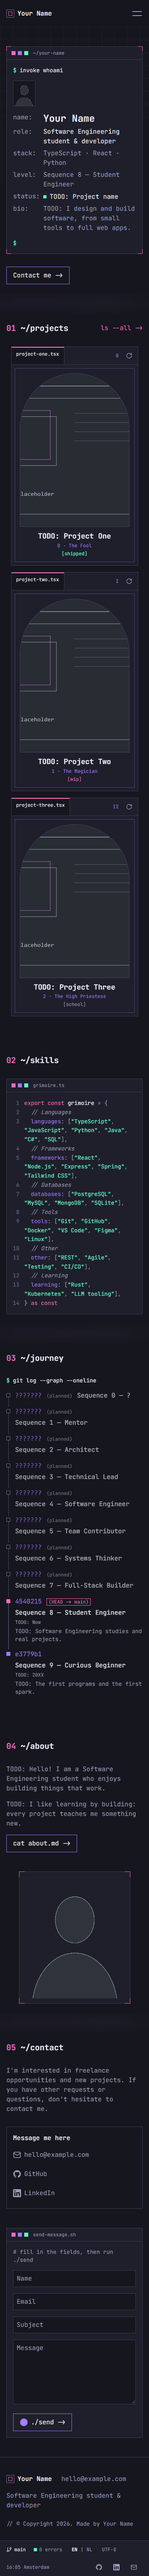
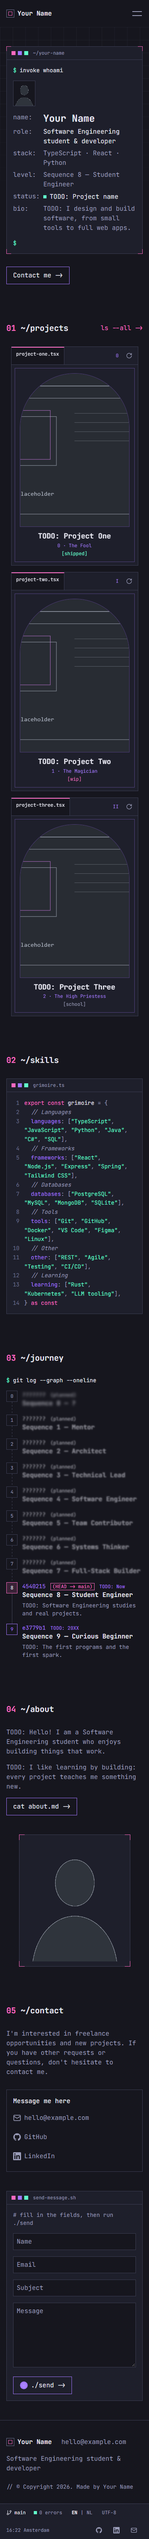
Remove fog bands and unify the journey component
- Remove FogBand dividers (component, usages, fog-drift keyframes/animation).
- New Journey component (git-log ladder with square nodes, commit ids, HEAD badge,
  fogged future steps) replaces JourneyLog (Home) and SequenceLadder (About).
- Merge the journey and sequence content blocks into one journey block.

diff --git a/src/components/sections/Journey.tsx b/src/components/sections/Journey.tsx
@@ -1,0 +1,83 @@
+import Section from '../ui/Section'
+import SectionHeading from '../ui/SectionHeading'
+import Gear from '../decor/Gear'
+import ClockHands from '../decor/ClockHands'
+import { sequences } from '../../content/sequences'
+import { useLang, useT } from '../../i18n/LanguageContext'
+
+const DASHED = 'repeating-linear-gradient(to bottom, currentColor 0 4px, transparent 4px 8px)'
+
+const hash = (n: number) => (Math.imul(n + 7, 2654435761) >>> 0).toString(16).padStart(8, '0').slice(0, 7)
+
+type Props = { num: string; decor?: 'clock' | 'gear' }
+
+/**
+ * Growth path as `git log --graph --oneline`, drawn as a ladder: Sequence 0 at the top, 9 at the bottom.
+ * Future steps are fogged (the fog is removed for prefers-reduced-transparency / prefers-contrast: more).
+ * Used on Home and About; only the section number and the decor differ.
+ */
+export default function Journey({ num, decor }: Props) {
+  const t = useT()
+  const { lang } = useLang()
+  const j = t.journey
+  const currentSeq = sequences.find((x) => x.current)?.seq ?? 9
+  const rungs = [...sequences].sort((a, b) => a.seq - b.seq) // 0 first = top
+  const currentIdx = rungs.findIndex((x) => x.seq === currentSeq)
+
+  return (
+    <Section labelledBy="journey-heading">
+      <SectionHeading id="journey-heading" num={num} title={j.heading} />
+      <p className="mb-4 text-sm">
+        <span aria-hidden="true" className="mr-2 text-ok">
+          $
+        </span>
+        <span className="text-fg">{j.command}</span>
+      </p>
+      <ol className="max-w-[620px]">
+        {rungs.map((r, i) => {
+          const state = r.current ? 'current' : r.seq > currentSeq ? 'reached' : 'future'
+          const last = i === rungs.length - 1
+          const node =
+            state === 'current'
+              ? 'border-accent-2 bg-accent-2/15 text-fg'
+              : state === 'reached'
+                ? 'border-accent text-accent'
+                : 'border-line text-muted'
+          return (
+            <li key={r.seq} className="flex gap-3" aria-current={r.current ? 'step' : undefined}>
+              <div aria-hidden="true" className="flex shrink-0 flex-col items-center">
+                <span className={`flex h-7 w-7 shrink-0 items-center justify-center border text-xs ${node}`}>{r.seq}</span>
+                {!last &&
+                  (i < currentIdx ? (
+                    <span className="min-h-3 w-px flex-1 text-line-strong/50" style={{ backgroundImage: DASHED }} />
+                  ) : (
+                    <span className="min-h-3 w-px flex-1 bg-line-strong/50" />
+                  ))}
+              </div>
+              <div className={`min-w-0 pb-4 ${state === 'future' ? 'fogged' : ''} ${r.seq === 0 ? 'fogged-deep' : ''}`}>
+                <p className="flex flex-wrap items-baseline gap-x-3 gap-y-1 text-sm">
+                  <span className={state === 'future' ? 'text-fg' : 'text-accent'}>{state === 'future' ? '???????' : hash(r.seq)}</span>
+                  {r.current && (
+                    <>
+                      <span className="border border-accent-2 px-1 text-xs text-accent-2">({j.head})</span>
+                      <span className="sr-only">{j.current}</span>
+                    </>
+                  )}
+                  {state === 'future' && <span className="text-xs text-fg">({j.planned})</span>}
+                  {state !== 'future' && r.year && <span className="text-xs text-accent">{r.year}</span>}
+                  {r.seq === 0 && <span className="sr-only">{j.locked}</span>}
+                </p>
+                <h3 className="text-base font-bold text-fg">
+                  {j.label} {r.seq} — {r.title[lang]}
+                </h3>
+                {state !== 'future' && r.text && <p className="mt-1 max-w-[56ch] text-sm">{r.text[lang]}</p>}
+              </div>
+            </li>
+          )
+        })}
+      </ol>
+      {decor === 'clock' && <ClockHands size={110} className="right-8 top-24 hidden lg:block" />}
+      {decor === 'gear' && <Gear size={130} className="right-10 top-24 hidden lg:block" />}
+    </Section>
+  )
+}

diff --git a/src/pages/HomePage.tsx b/src/pages/HomePage.tsx
@@ -1,11 +1,10 @@
 import Hero from '../components/sections/Hero'
 import ProjectsPreview from '../components/sections/ProjectsPreview'
 import SkillsSection from '../components/sections/SkillsSection'
-import JourneyLog from '../components/sections/JourneyLog'
+import Journey from '../components/sections/Journey'
 import AboutPreview from '../components/sections/AboutPreview'
 import ContactSection from '../components/sections/ContactSection'
 import PageEdgeDecor from '../components/decor/PageEdgeDecor'
-import FogBand from '../components/decor/FogBand'
 
 export default function HomePage() {
   return (
@@ -18,13 +17,10 @@ export default function HomePage() {
         ]}
       />
       <Hero />
-      <FogBand />
       <ProjectsPreview />
       <SkillsSection />
-      <FogBand />
-      <JourneyLog />
+      <Journey num="03" decor="clock" />
       <AboutPreview />
-      <FogBand />
       <ContactSection />
     </div>
   )

diff --git a/src/pages/AboutPage.tsx b/src/pages/AboutPage.tsx
@@ -3,8 +3,7 @@ import Section from '../components/ui/Section'
 import SectionHeading from '../components/ui/SectionHeading'
 import Grimoire from '../components/about/Grimoire'
 import FunFacts from '../components/about/FunFacts'
-import SequenceLadder from '../components/sections/SequenceLadder'
-import FogBand from '../components/decor/FogBand'
+import Journey from '../components/sections/Journey'
 import CornerBrackets from '../components/decor/CornerBrackets'
 import PageEdgeDecor from '../components/decor/PageEdgeDecor'
 import { useT } from '../i18n/LanguageContext'
@@ -36,8 +35,7 @@ export default function AboutPage() {
         </div>
       </Section>
 
-      <SequenceLadder num="01" />
-      <FogBand />
+      <Journey num="01" decor="gear" />
 
       <Section labelledBy="about-skills-heading">
         <SectionHeading id="about-skills-heading" num="02" title={a.skillsHeading} />

diff --git a/tailwind.config.ts b/tailwind.config.ts
@@ -33,10 +33,6 @@ export default {
       keyframes: {
         blink: { '0%, 49%': { opacity: '1' }, '50%, 100%': { opacity: '0' } },
         runeSpin: { to: { transform: 'rotate(360deg)' } },
-        fogDrift: {
-          '0%': { transform: 'translate3d(-5%, 0, 0)' },
-          '100%': { transform: 'translate3d(5%, 0, 0)' },
-        },
         gearTurn: { to: { transform: 'rotate(360deg)' } },
         stamp: {
           '0%': { transform: 'scale(1.4) rotate(-12deg)' },
@@ -46,7 +42,6 @@ export default {
       animation: {
         blink: 'blink 1.1s steps(1, end) infinite',
         'rune-spin': 'runeSpin 240s linear infinite',
-        'fog-drift': 'fogDrift 40s ease-in-out infinite alternate',
         'gear-turn': 'gearTurn 120s linear infinite',
         stamp: 'stamp 250ms ease-out 1',
       },

diff --git a/src/content/nl.ts b/src/content/nl.ts
@@ -65,13 +65,7 @@ export const nl: Content = {
     label: 'Sequence',
     head: 'HEAD -> main',
     planned: 'planned',
-  },
-
-  sequence: {
-    heading: 'sequence · groeipad',
-    command: 'cat ~/.sequence',
-    label: 'Sequence',
-    current: '<- je bent hier',
+    current: 'je bent hier',
     locked: 'vergrendeld',
   },
 

diff --git a/src/content/en.ts b/src/content/en.ts
@@ -65,13 +65,7 @@ export const en = {
     label: 'Sequence',
     head: 'HEAD -> main',
     planned: 'planned',
-  },
-
-  sequence: {
-    heading: 'sequence · growth-path',
-    command: 'cat ~/.sequence',
-    label: 'Sequence',
-    current: '<- you are here',
+    current: 'you are here',
     locked: 'locked',
   },
 
